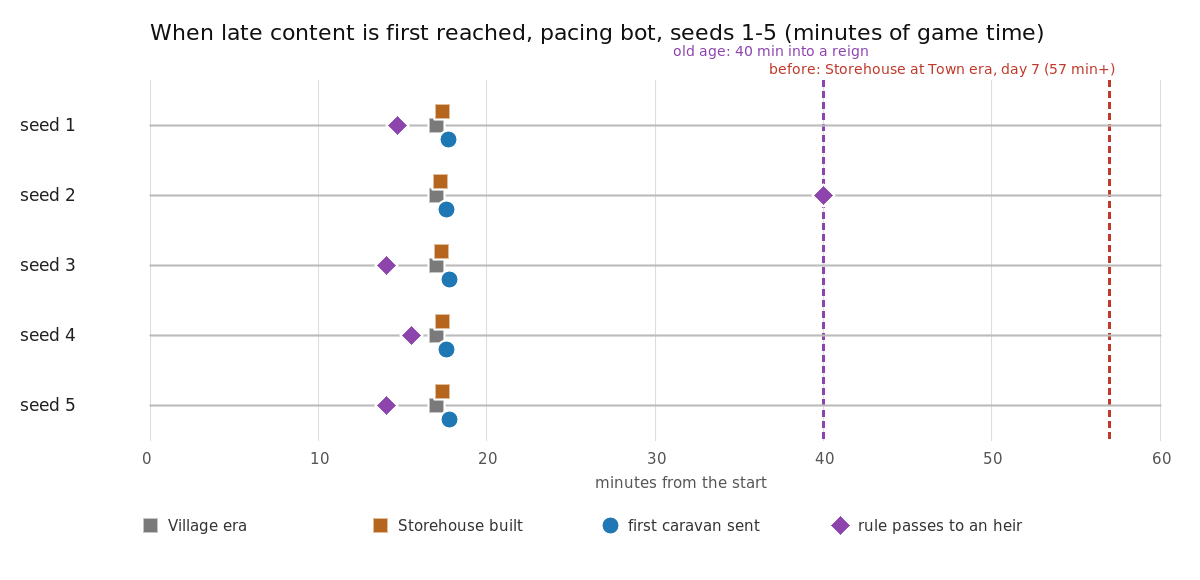
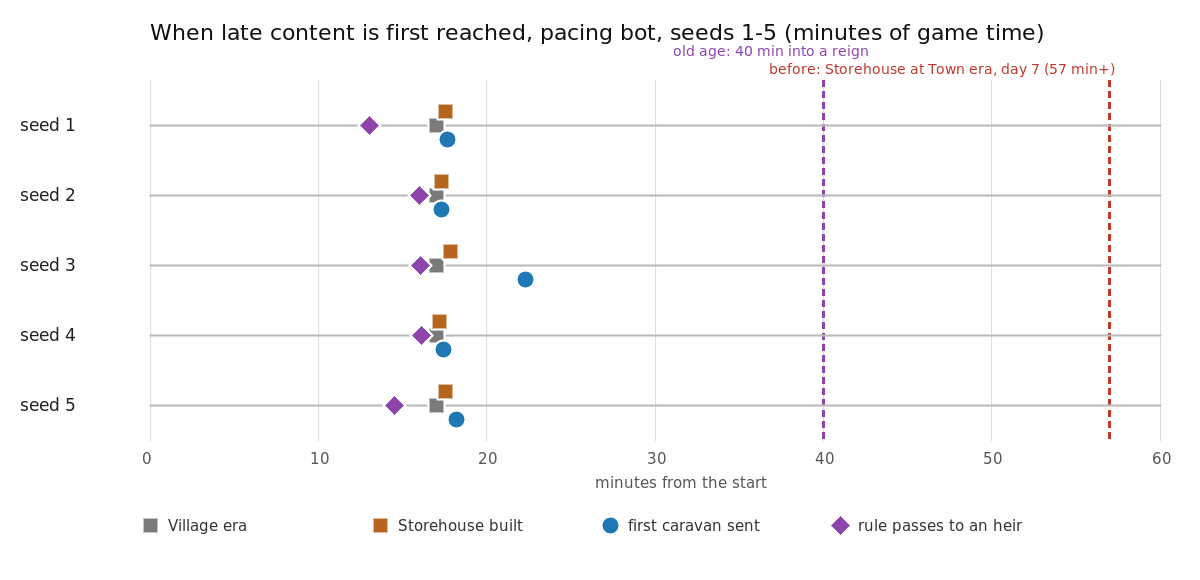
Let the pacing bot build its storehouse while it recruits; refresh the visuals
On develop as it now stands the bot spends the Village era recruiting
and never had a funds goal, so it never built a storehouse; it now puts
one up, and sends caravans, between recruits. A pacing run consumes a
succession notice after five seconds, as a player pressing Continue
would, so a saved world does not open on an old succession. The chart
and screenshots are retaken from the rebased branch.

Claude-Session: https://claude.ai/code/session_01LYNeukxdP2eURbP7PJnoVK

diff --git a/tools/BeyondNations.Pacing/PacingRun.cs b/tools/BeyondNations.Pacing/PacingRun.cs
@@ -52,6 +52,7 @@ namespace beyondnations.pacing {
         * members (docs/PACING.md, "Recruiting").
         */
         public bool NoCourting = false;
+        /**
         * Milestones (PacingMilestones) to watch for. A run goes on past its
         * objective limit, up to MaxTicks, until each has been reached.
         */
@@ -148,6 +149,8 @@ namespace beyondnations.pacing {
             int previousCompletionTick = 0;
             int tick = 0;
             string lastStatus = null;
+            SuccessionNotice shownNotice = null;
+            int noticeSince = 0;
             sample(simulation, bot, result);
             while (tick < options.MaxTicks && (recorded < options.ObjectiveLimit || result.Milestones.Count < options.Milestones.Count)) {
                 bot.beforeTick();
@@ -179,6 +182,17 @@ namespace beyondnations.pacing {
                 }
                 if (result.VillageMembersTick < 0 && WorldView.members(simulation) >= EraRules.VillageMembers) {
                     result.VillageMembersTick = tick;
+                }
+                // the succession screen: a player reads it for five seconds and presses Continue,
+                // so a world saved later does not open on an old succession
+                SuccessionNotice notice = simulation.getRealm().getNotice();
+                if (notice != shownNotice) {
+                    shownNotice = notice;
+                    noticeSince = tick;
+                }
+                else if (notice != null && !notice.isLineEnded() && tick - noticeSince == 5 * options.TicksPerSecond) {
+                    simulation.getRealm().consumeNotice();
+                }
                 if (options.SaveAtTicks.Contains(tick) && options.SaveDirectory != null) {
                     System.IO.Directory.CreateDirectory(options.SaveDirectory);
                     System.IO.File.WriteAllBytes(System.IO.Path.Combine(options.SaveDirectory,

diff --git a/tools/BeyondNations.Pacing/PacingBot.cs b/tools/BeyondNations.Pacing/PacingBot.cs
@@ -654,10 +654,10 @@ namespace beyondnations.pacing {
                 earnFunds();
                 return;
             }
-            // recruiting needs no wood or stone: a leader with a storehouse sends what it
-            // carries on a free caravan on the way, as the caravan button invites
-            Settlement depot = WorldView.isLeader(simulation) ? settlementWithStorehouse() : null;
-            if (depot != null && sendCaravan(depot)) {
+            // recruiting needs no wood or stone: once the era message announces the
+            // storehouse ("Unlocked: Storehouse (more market stalls, and caravans)"), a
+            // leader puts one up, then sends what it carries on a free caravan on the way
+            if (tradeByCaravan()) {
                 return;
             }
             activity = "recruiting settlers";

diff --git a/docs/PACING.md b/docs/PACING.md
@@ -28,17 +28,25 @@ Some late content is not an objective but should come up in a normal session of 
 | `caravan` | the player has a caravan of their own on the road | 30 min |
 | `succession` | the rule has passed to an heir (old age, hunger or abdication) | 60 min |
 
-Measured on seeds 1 to 5 (one hour each): the Storehouse at 17m 13s to 17m 23s (as the Village era comes), the first caravan about 20 seconds later, and a succession on every seed: of hunger at 14m 03s to 15m 33s on seeds 1, 3, 4 and 5 (the bot gives its food away recruiting), and of old age at 40m 00s on seed 2. The binding objectives are unchanged to within a few seconds. Among the advisory ambitions, "Grow your nation to 16" came later or not within the hour (seeds 1 and 5 short of it; the bot now stops recruiting to send caravans, and a new ruler starts with half the old one's standing) and "Amass 1000 coins" comes within a second of its turn on the seeds that reach it; neither gates the build, and the objective budget is unchanged.
+Measured on seeds 1 to 5 (one hour each): the Storehouse at 17m 13s to 17m 50s (as the Village era comes), the first caravan between a second and four and a half minutes later, and a succession on every seed. The first is of hunger at 13m 01s to 16m 06s (the bot gives its food away recruiting); that heir then grows old, is warned at 46m 10s and dies of old age at 56m 10s on seeds 2, 3 and 4. The binding objectives are unchanged to within a few seconds. Among the advisory ambitions, "Grow your nation to 16" is not reached within the hour on seed 1 (the bot now stops recruiting to put up a storehouse and send caravans, and a new ruler starts with half the old one's standing); neither it nor the others gate the build, and the objective budget is unchanged.
 
 ![When the Storehouse, the first caravan and the first succession were reached on seeds 1 to 5](./screenshots/reachable-late-game/pacing-milestones.png)
 
-The chart is drawn from `pacing-report.json` by `python3 tools/pacing-milestones-chart.py pacing-out/pacing-report.json OUT.png src/BeyondNations.Desktop/assets/fonts/DejaVuSans.ttf` (ImageMagick). The screenshots below are the bot's own run on seed 2, saved with `--save-at` and loaded in the game with `--continue` (and `--start-screen laws`): the bot inside its village on day 3 with *Send Caravan* on the bar, its caravan selling at a neighbour's market, the warning that the founder is growing old, the Laws tab naming the heir (desktop and phone), and the succession screen at 40 minutes.
+The chart is drawn from `pacing-report.json` by `python3 tools/pacing-milestones-chart.py pacing-out/pacing-report.json OUT.png src/BeyondNations.Desktop/assets/fonts/DejaVuSans.ttf` (ImageMagick). The screenshots below are the bot's own run on seed 2, saved with `--save-at` and loaded in the game with `--continue` (and `--start-screen laws`). They show:
+
+- the bot on day 3 of the Village era, just after it sent a caravan of 40 wood;
+- day 5, when the chronicle says the ruler, the heir who took over from a starved founder, is growing old (a drought world event is waiting for an answer, as the bot never answers one);
+- the Laws tab naming the heir, with when old age comes and *Abdicate*, on desktop and phone;
+- the succession screen when that ruler dies of old age, 56 minutes in.
+
+A run consumes the succession notice five seconds after it appears, as a player pressing *Continue* would, so a world saved later does not open on an old succession.
 
 | | |
 |---|---|
-| ![Day 3, Village era: inside the bot's settlement, Send Caravan is on the command bar](./screenshots/reachable-late-game/village-era-send-caravan.png) | ![Day 3: the bot's caravan sold 4 wood at a neighbour's village](./screenshots/reachable-late-game/caravan-sold.png) |
-| ![Day 4: the chronicle says the founder is growing old and names the heir](./screenshots/reachable-late-game/growing-old.png) | ![The Laws tab names the heir, says when old age comes, and offers Abdicate](./screenshots/reachable-late-game/laws-heir-abdicate.png) |
-| ![The succession screen at 40 minutes: the founder died of old age after a reign of 4 days](./screenshots/reachable-late-game/succession-old-age.png) | ![The Laws tab at phone size](./screenshots/reachable-late-game/laws-heir-abdicate-phone.png) |
+| ![Day 3, Village era: the chronicle says the bot sent a caravan of 40 wood](./screenshots/reachable-late-game/caravan-sent.png) | ![Day 5: the chronicle says the ruler is growing old and names the heir](./screenshots/reachable-late-game/growing-old.png) |
+| ![The Laws tab names the heir, says when old age comes, and offers Abdicate](./screenshots/reachable-late-game/laws-heir-abdicate.png) | ![The succession screen at 56 minutes: the second ruler died of old age after a reign of 4 days](./screenshots/reachable-late-game/succession-old-age.png) |
+
+<img src="./screenshots/reachable-late-game/laws-heir-abdicate-phone.png" alt="The Laws tab at phone size" width="270">
 
 They were added for #372 and #373: in the 0.6.0 playtest neither a caravan (the storehouse waited for the Town era, day 7) nor a succession (rulers died only of hunger) could be met in a session. The storehouse now comes with the Village era and rulers grow old after forty minutes (SYSTEMS.md), and these keep them in reach.
 

diff --git a/docs/SYSTEMS.md b/docs/SYSTEMS.md
@@ -255,7 +255,7 @@ When the player dies as a member of a nation (`Succession`), an heir from that n
 **Old age and abdication** (#372). Hunger alone almost never ended a reign, since a player who carries food eats it, so no playtest met a succession. A ruler now grows old: after three days of reign (`Realm.OLD_AGE_TICKS` less `OLD_AGE_WARNING_TICKS`; thirty minutes) the status line and chronicle say they are growing old and name the heir, and a day later (forty minutes into the reign) they die of old age and the heir takes up the rule. Old age never ends a run: a ruler with no heir lingers until a member joins. The countdown is kept from the reign's start, which saves already hold; the warning is not saved, so a loaded world warns again and gives its day before the end. A ruler who leads may also **abdicate** from the Laws tab of the nations screen (two presses, `ConfirmGate`), handing the rule to the heir at once. After old age or abdication the old ruler's belongings go to the heir with the crown rather than being dropped. The Laws tab names the heir and why, and how long the ruler has left (`Heir: Bo Smith, the most loyal of your people. Old age comes in about 32 minutes.`). The lineage records each reign's cause (hunger, old age or abdication), which the succession screen tells.
 
 ![The Laws tab names the heir and when old age comes, with Abdicate](./screenshots/reachable-late-game/laws-heir-abdicate.png)
-![The succession screen after the founder died of old age, 40 minutes into a pacing-bot run](./screenshots/reachable-late-game/succession-old-age.png)
+![The succession screen after a ruler died of old age, 56 minutes into a pacing-bot run](./screenshots/reachable-late-game/succession-old-age.png)
 
 With no member left to succeed, the line ends and so does the run: it is a defeat (see *Eras and the end of a run*), told on the end-of-run screen, which offers *New world*, *Load* and *Main menu*, and the world is never saved again (Load brings back the last save, from before the death). A nationless wanderer still rises again as before. `--stage-succession` opens the diplomacy stage with the player about to starve; `--start-screen laws` opens the nations screen on its Laws tab.
 
